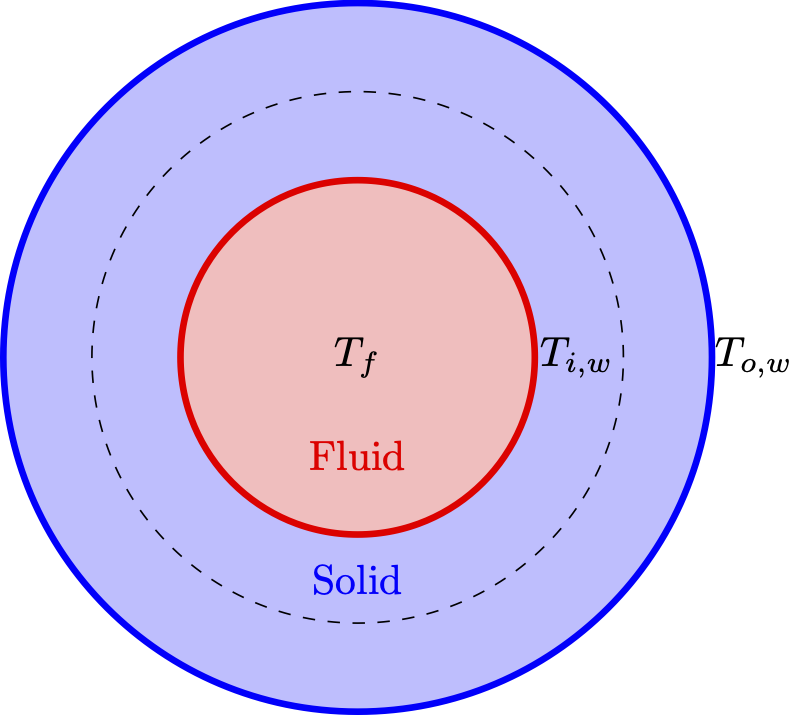
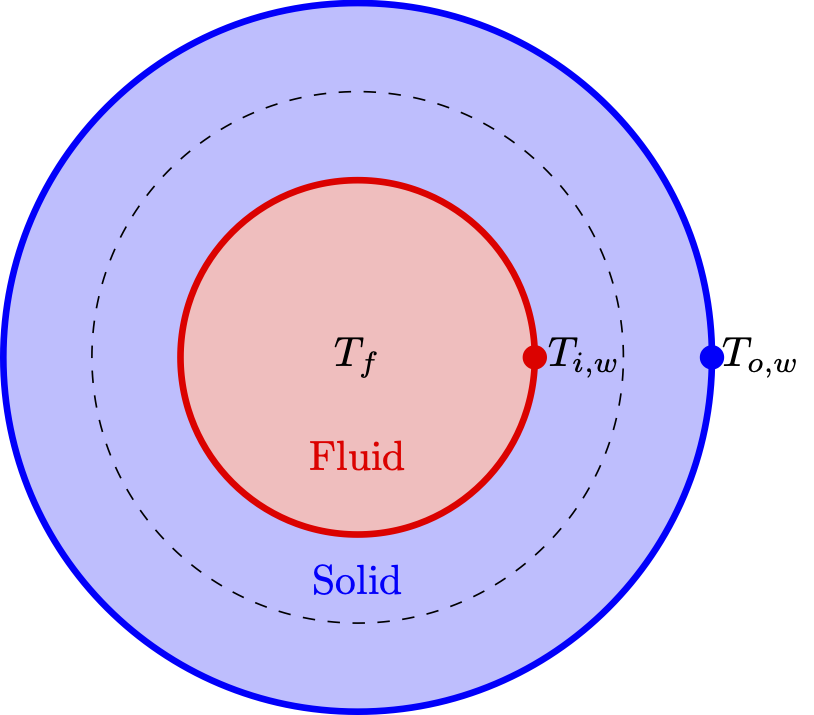
Requested doc changes.

diff --git a/modules/thermal_hydraulics/doc/tex/tikz_diagrams/pipe_cross_section.tex b/modules/thermal_hydraulics/doc/tex/tikz_diagrams/pipe_cross_section.tex
@@ -29,8 +29,10 @@
 
 % temperature labels
 \node at (pC) {$T_f$};
-\node at ({\Rfluid + 0.12}, 0) {$T_{i,w}$};
-\node at ({\Router + 0.12}, 0) {$T_{o,w}$};
+\draw[red, ultra thick, fill=red] (\Rfluid,0) circle (0.025);
+\node at ({\Rfluid + 0.14}, 0) {$T_{i,w}$};
+\draw[blue, ultra thick, fill=blue] (\Router,0) circle (0.025);
+\node at ({\Router + 0.14}, 0) {$T_{o,w}$};
 
 \end{tikzpicture}
 

diff --git a/modules/thermal_hydraulics/doc/content/source/scalarkernels/PipeOuterWallCoupledConvectiveTemperatureScalarKernel.md b/modules/thermal_hydraulics/doc/content/source/scalarkernels/PipeOuterWallCoupledConvectiveTemperatureScalarKernel.md
@@ -12,7 +12,7 @@ temperature $T_{i,w}$ and coupled variables for the upstream $T_{o,u}$ and downs
 This kernel implements a secondary side, coupled convective heat transfer term for the per-length heat transfer term:
 
 !equation
-q_o^{'} = \frac{h P_{o,w}}{2} \left ( 2 T_{o,w} - T_{in,f} - T_f \right )
+q_o^{'} = \frac{h P_{o,w}}{2} \left ( T_{in,f} + T_f - 2 T_{o,w} \right )
 
 where $h$ is computed internally from a Dittus-Boelter correlation using the hydraulic
 diameter of the secondary-side flow channel, $D_h = 4 A_f / P_w$, with $A_f$ the flow
@@ -25,6 +25,9 @@ Pr = \frac{\mu_f c_{p,f}}{k_f}
 
 where $\dot{m}$ is the secondary-side mass flow rate and $\mu_f$, $c_{p,f}$, and $k_f$ are the secondary-side fluid viscosity, specific heat, and thermal conductivity, evaluated at the reference pressure and the mean of $T_f$ and $T_{in,f}$. $T_{in,f}$ upwinds the
 upstream/downstream secondary-side fluid temperature according to the sign of $\dot{m}$:
+
+!equation
+T_{in,f} = \frac{1}{2} \left(1-\frac{|\dot{m}|}{\dot{m}} \right) T_{d,f} + \frac{1}{2} \left(1+\frac{|\dot{m}|}{\dot{m}} \right) T_{u,f}
 
 Note, use of this kernel with transient problems also necessitates the use of a
 [ODETimeDerivative.md] (or its AD equivalent) with `coefficient = 1` on the same scalar

diff --git a/modules/thermal_hydraulics/doc/content/modules/thermal_hydraulics/theory_manual/path_integrated_incompressible_model/index.md b/modules/thermal_hydraulics/doc/content/modules/thermal_hydraulics/theory_manual/path_integrated_incompressible_model/index.md
@@ -147,6 +147,7 @@ where
 - $T_{i,w}$ is the temperature of the inner surface of the wall,
 - $T_{o,w}$ is the temperature of the outer surface of the wall,
 - $P_{m,w}$ is the perimeter of the mid-thickness dividing line that represents the boundary between the inner layer and the outer layer of the wall,
+- $\delta$ is the thickness of the wall,
 - $L$ is the segment length,
 - $h$ is the heat transfer coefficient of the fluid,
 - $T_f$ is the fluid temperature of the segment (defined at the outlet of the segment, as mentioned before), and
@@ -162,7 +163,7 @@ G_{i,d} = \left( \frac{\Delta x_d}{2 k_w A_{i,w}} + \frac{\Delta x_d}{2 k_d A_{i
 
 where
 
-- $\Delta x_u$ and $\Delta x_d$ are the axial spacings to the upstream and downstream nodes,
+- $\Delta x_u$ and $\Delta x_d$ are the axial spacings to the upstream and downstream nodes, related to lengths via $\Delta x_u = L/2 + L_u/2$,
 - $k_u$ and $k_d$ are the wall conductivity evaluated at the upstream and downstream node's own temperature, and
 - $A_{i,u}$ and $A_{i,d}$ are the layer area evaluated at the upstream and downstream node's own cross-section.
 

diff --git a/modules/thermal_hydraulics/doc/content/source/scalarkernels/PipeOuterWallHeatFluxScalarKernel.md b/modules/thermal_hydraulics/doc/content/source/scalarkernels/PipeOuterWallHeatFluxScalarKernel.md
@@ -15,7 +15,7 @@ This kernel implements an applied heat flux boundary condition for the per-lengt
 !equation
 q_o^{'} = P_{o,w} q_o^{''}
 
-$q_o^{''}$ is supplied directly by the user as a functor (a constant, function, variable,
+where $q_o^{''}$ is supplied directly by the user as a functor (a constant, function, variable,
 material, or postprocessor), following the same sign convention as
 [HSBoundaryHeatFlux.md]; this kernel does not compute the heat flux internally from a
 flow or radiation correlation, and $q_o^{''}$ does not depend on this node's own temperature, so this kernel makes no contribution to the Jacobian beyond the shared radial/axial conduction terms.

diff --git a/modules/thermal_hydraulics/doc/content/source/scalarkernels/PipeOuterWallAmbientTemperatureScalarKernel.md b/modules/thermal_hydraulics/doc/content/source/scalarkernels/PipeOuterWallAmbientTemperatureScalarKernel.md
@@ -12,7 +12,7 @@ temperature $T_{i,w}$ and coupled variables for the upstream $T_{o,u}$ and downs
 This kernel implements an ambient convective heat transfer term for the per-length heat transfer term:
 
 !equation
-q_o^{'} = h P_{o,w} \left ( T_{o,w} - T_\infty \right )
+q_o^{'} = h P_{o,w} \left ( T_\infty - T_{o,w} \right )
 
 $h$ and $T_\infty$ are supplied directly by the user as functors (constants,
 functions, variables, materials, or postprocessors); this kernel does not compute an ambient heat transfer coefficient internally from a flow correlation.
